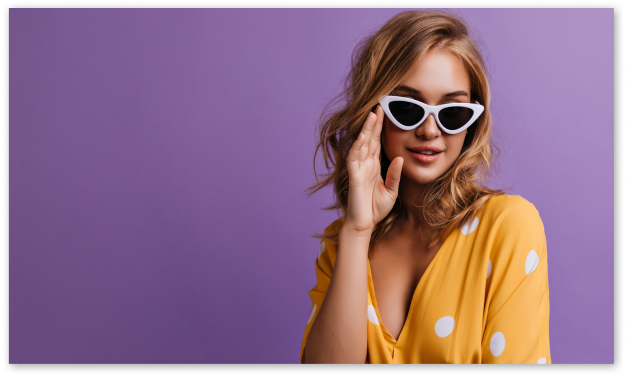
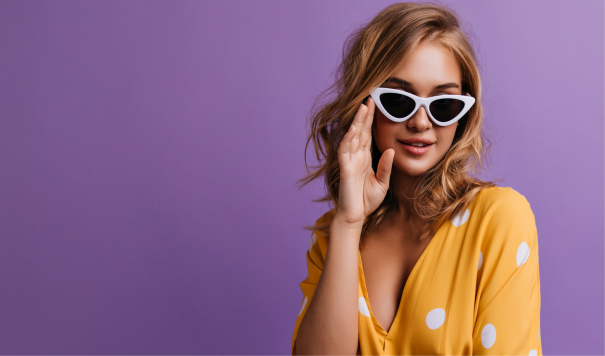
add card for deals section

Changed region(s): [[0.0, 0.0, 1.0, 1.0]]

diff --git a/src/components/cards/CardDeals.jsx b/src/components/cards/CardDeals.jsx
@@ -1,20 +1,31 @@
 import Button from "../ui/Button/Button.jsx";
 import './CardDeals.scss'
-const CardDeals = () => {
+const CardDeals = (props) => {
+
+  const {
+    prefix,
+    title,
+    description,
+    bg
+  } = props
+
   return (
-    <div className="card-deals">
+    <div
+      className="card-deals"
+      style={{ backgroundImage: `url(${bg})` }}
+    >
       <p className="card-deals__prefix">
-        Low Price
+        {prefix}
       </p>
       <h3 className="card-deals__title">
-        Breezy Summer
-        Style
+        {title}
       </h3>
       <p className="card-deals__description">
-        UPTO 50% OFF
+        {description}
       </p>
       <Button
-        mode='transparent'
+        className='card-deals__button'
+        mode='transparent-white'
         location='deals'
         label='Explore Items'
       />

diff --git a/src/components/cards/CardDeals.scss b/src/components/cards/CardDeals.scss
@@ -1,14 +1,14 @@
 .card-deals {
   display: flex;
   flex-direction: column;
-  justify-content: space-around;
+  justify-content: space-between;
   align-items: start;
   padding-left: 28px;
   padding-top: 57px;
-  padding-bottom: 80px;
+  padding-bottom: 55px;
 
-  background: url("src/assets/images/cards/deals-bg-1.jpg");
   background-size: cover;
+  background-repeat: no-repeat;
 
   border-radius: 12px;
   box-shadow: 2px 2px 10px 0 rgba(0, 0, 0, 0.4);
@@ -32,7 +32,7 @@
     font-weight: 800;
     font-size: 34px;
     line-height: 133%;
-    margin-bottom: 9px;
+    padding-bottom: 10px;
     max-width: 264px;
     text-wrap: wrap;
   }
@@ -42,7 +42,10 @@
     font-size: 16px;
     line-height: 157%;
     letter-spacing: 0.02em;
-    margin-bottom: 42px;
+    margin-bottom: 30px;
+  }
+
+  &__button {
   }
 
 }

diff --git a/src/sections/Deals/Deals.jsx b/src/sections/Deals/Deals.jsx
@@ -3,9 +3,20 @@ import CardDeals from "../../components/cards/CardDeals.jsx";
 
 const Deals = () => {
   return (
-    <>
-      <CardDeals />
-    </>
+    <div className="deals container">
+      <CardDeals
+        prefix="Low Price"
+        title="High Coziness"
+        description="UPTO 50% OFF"
+        bg="src/assets/images/cards/deals-bg-1.jpg"
+      />
+      <CardDeals
+        prefix="Beyoung Presents"
+        title="Breezy Summer Style"
+        description="UPTO 50% OFF"
+        bg="src/assets/images/cards/deals-bg-2.jpg"
+      />
+    </div>
   )
 }
 

diff --git a/src/components/ui/Button/Button.jsx b/src/components/ui/Button/Button.jsx
@@ -3,6 +3,7 @@ import './Button.scss'
 
 const Button = (props) => {
   const {
+    className,
     label,
     mode,
     location,
@@ -24,6 +25,7 @@ const Button = (props) => {
   return (
     <Component
       className={classNames(
+        className,
         'button',
         `button-${mode}`,
         `button-${location}`

diff --git a/src/components/ui/Button/Button.scss b/src/components/ui/Button/Button.scss
@@ -11,9 +11,9 @@
     height: 44px;
   }
 
-  &-transparent {
+  &-transparent-white {
     background-color: transparent;
-    color: inherit;
+    color: var(--color-white);
   }
 
   &-deals {

diff --git a/src/sections/Deals/Deals.scss b/src/sections/Deals/Deals.scss
@@ -1,0 +1,8 @@
+.deals {
+  display: flex;
+  flex-direction: row;
+  justify-content: space-between;
+  column-gap: 30px;
+  margin-top: 130px;
+  margin-bottom: var(--section-padding-y);
+}

diff --git a/src/assets/styles/variables.scss b/src/assets/styles/variables.scss
@@ -17,6 +17,7 @@
 
   --container-padding-x: 100px;
   --container-width: 1240px;
+  --section-padding-y: 50px;
 
 
 }
